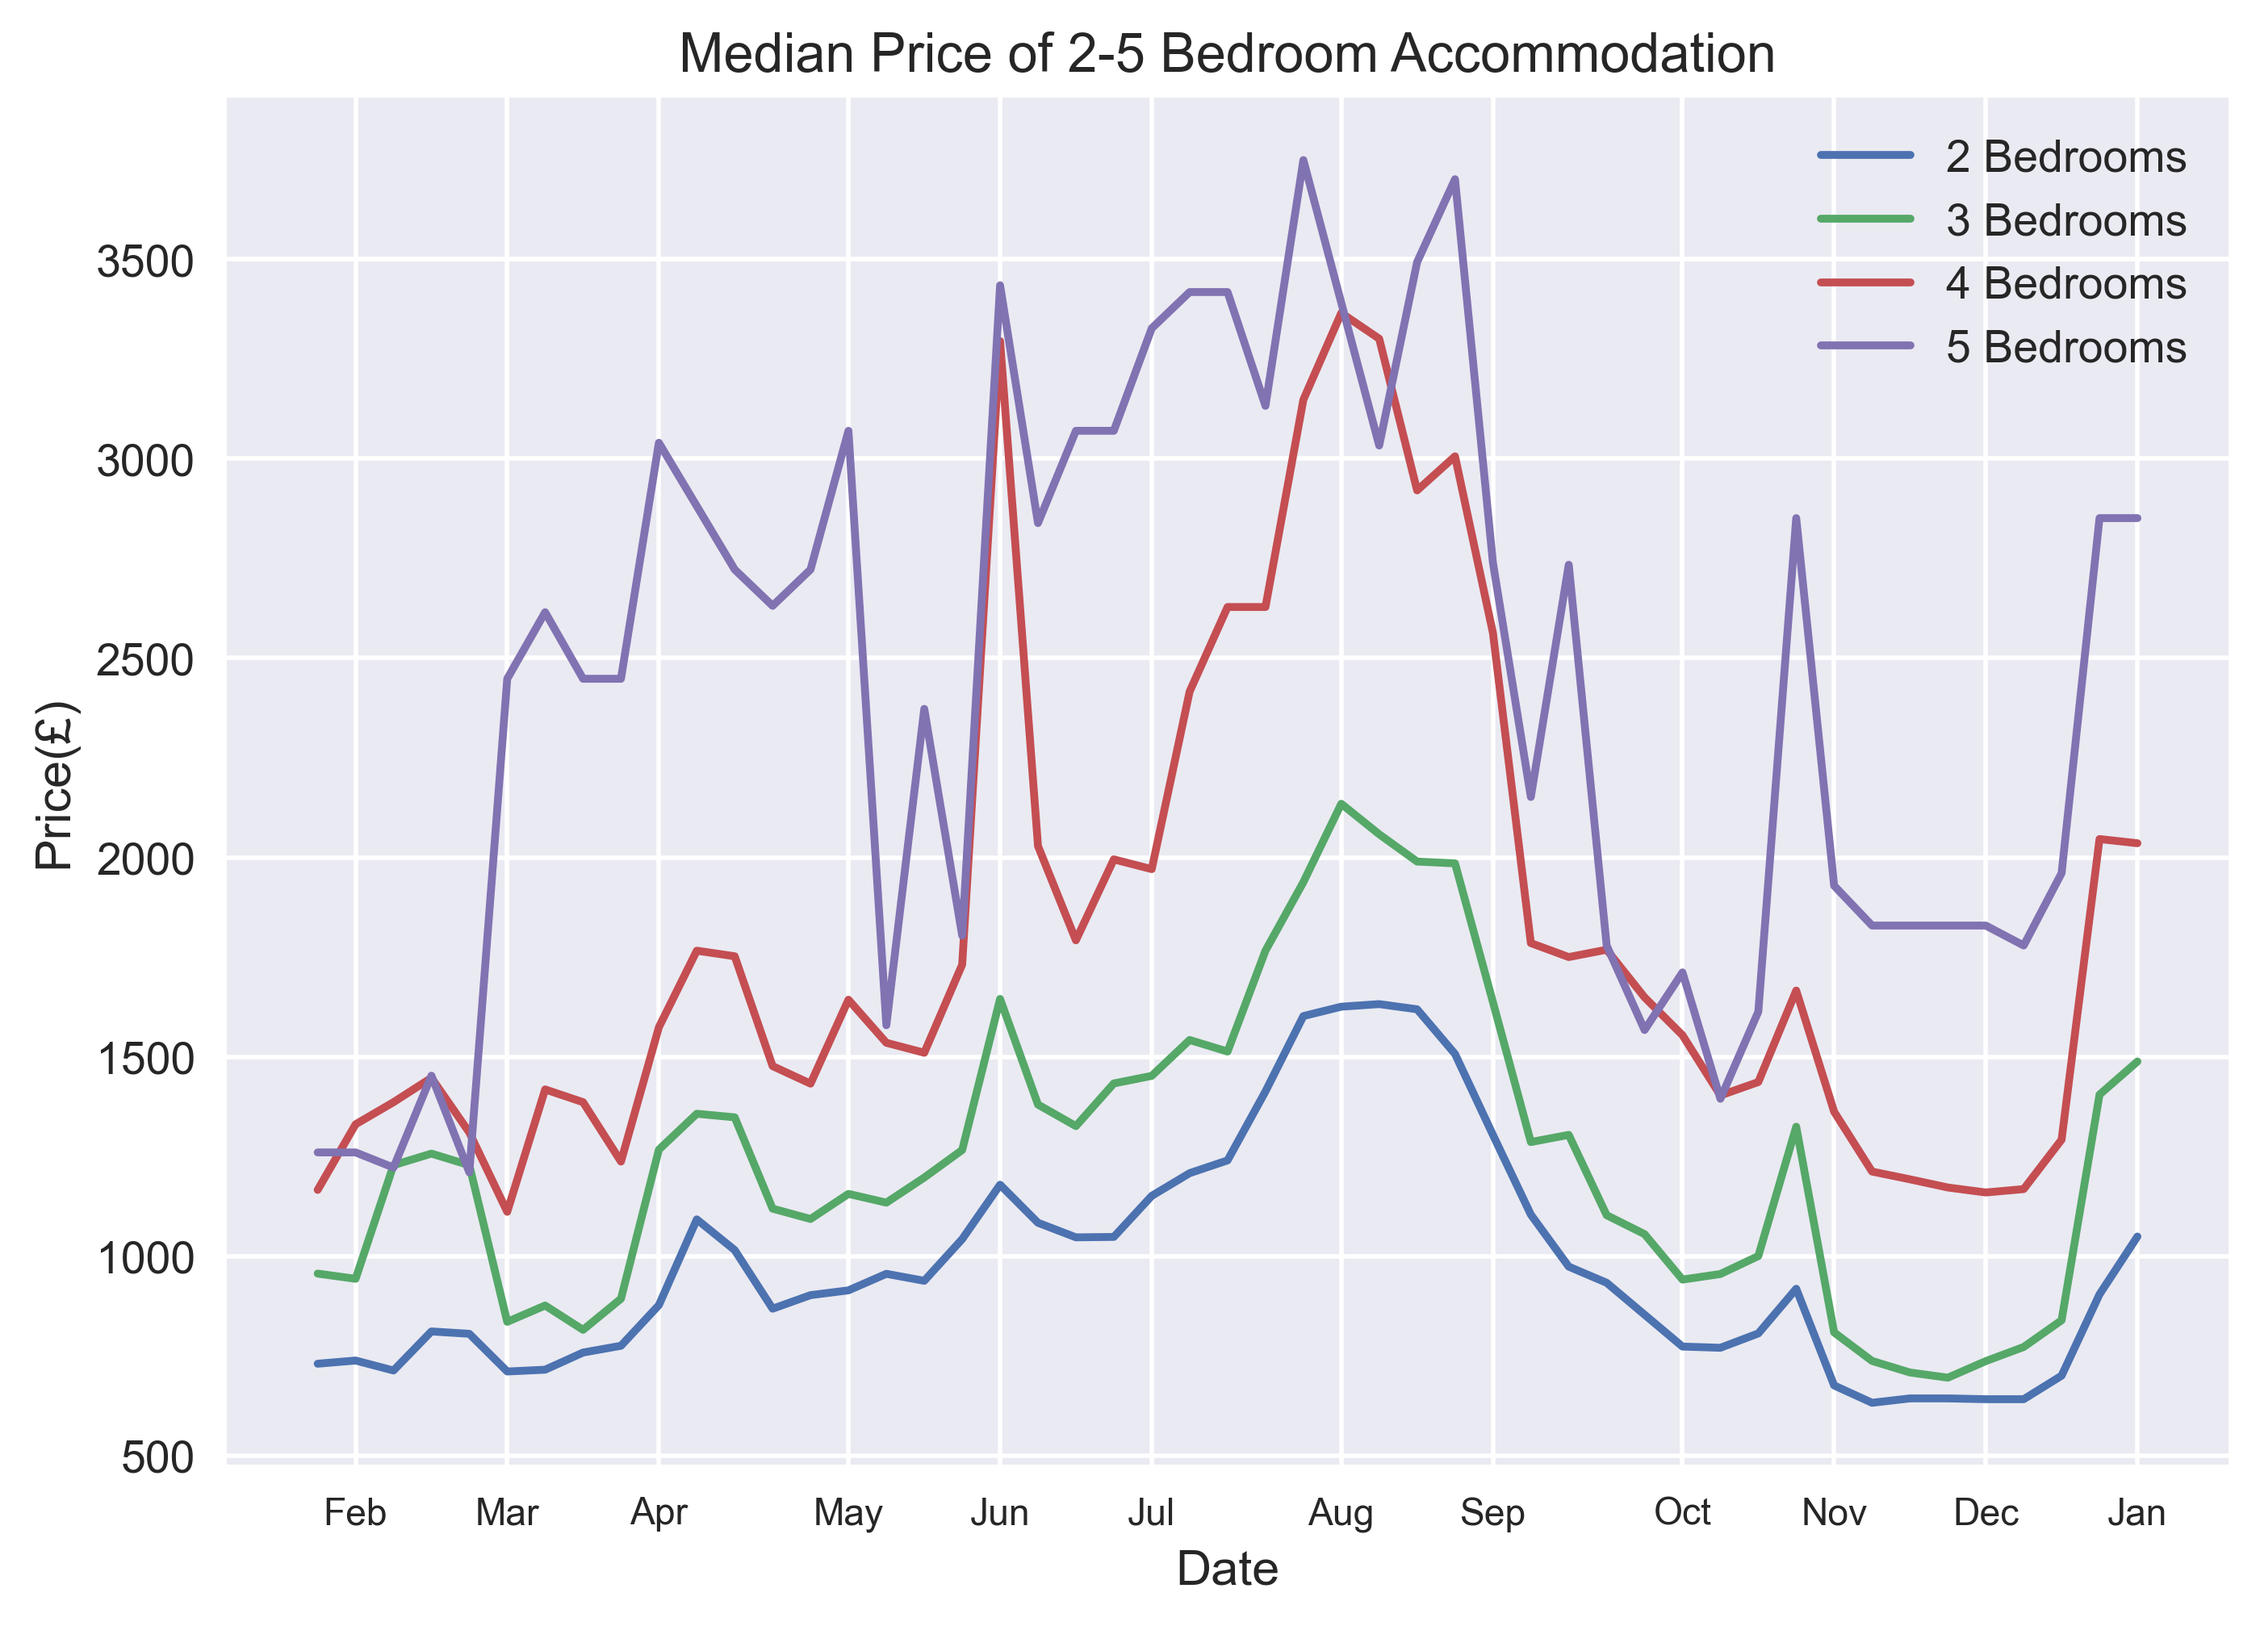
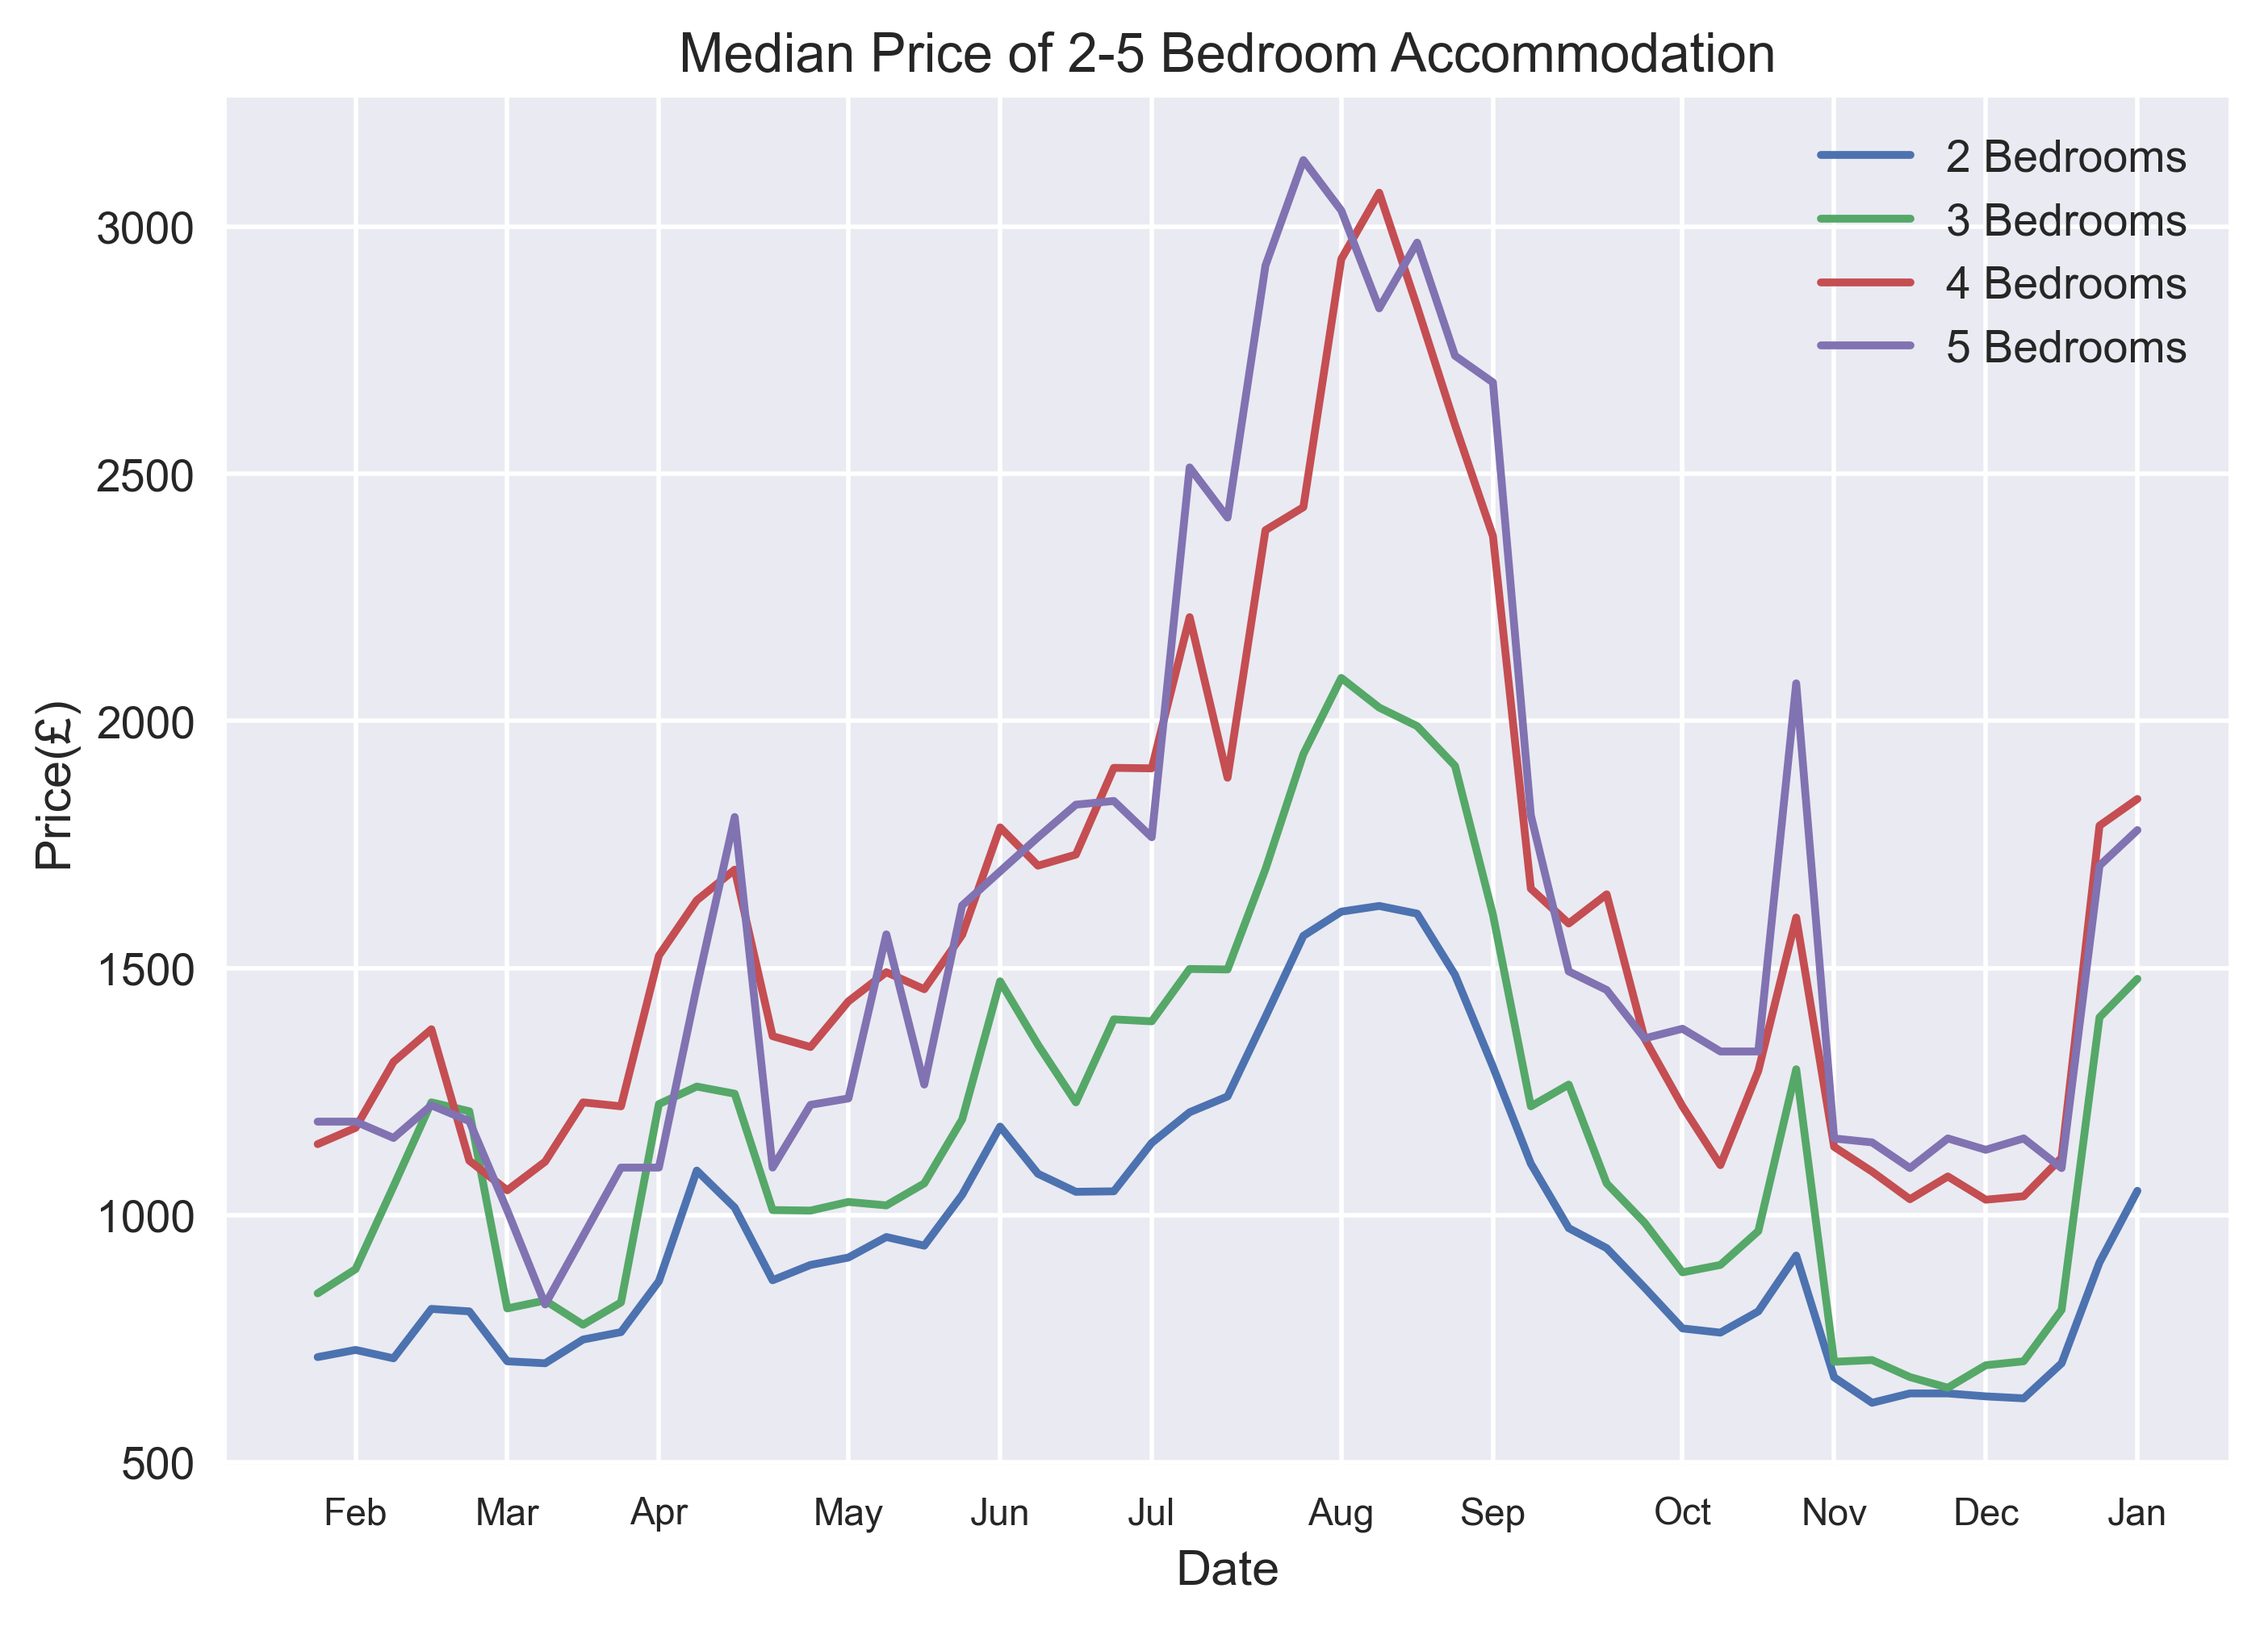
Refactored room_graphs.py updated graphs

diff --git a/analysis/room_graphs.py b/analysis/room_graphs.py
@@ -23,40 +23,27 @@ month_index = dates['month_ind']
 
 plt.style.use('seaborn')
 
-fig1 = plt.figure()
-ax1 = fig1.add_subplot(1,1,1)
+def graph(col, title, output=False):
+    fig1 = plt.figure()
+    ax1 = fig1.add_subplot(1,1,1)
 
-ax1.plot(Bedrooms.df2['date'], Bedrooms.df2['median'], label='2 Bedrooms')
-ax1.plot(Bedrooms.df3['date'], Bedrooms.df3['median'], label='3 Bedrooms')
-ax1.plot(Bedrooms.df4['date'], Bedrooms.df4['median'], label='4 Bedrooms')
-ax1.plot(Bedrooms.df5['date'], Bedrooms.df5['median'], label='5 Bedrooms')
+    ax1.plot(Bedrooms.df2['date'], Bedrooms.df2[col], label='2 Bedrooms')
+    ax1.plot(Bedrooms.df3['date'], Bedrooms.df3[col], label='3 Bedrooms')
+    ax1.plot(Bedrooms.df4['date'], Bedrooms.df4[col], label='4 Bedrooms')
+    ax1.plot(Bedrooms.df5['date'], Bedrooms.df5[col], label='5 Bedrooms')
 
-ax1.legend()
+    ax1.legend()
 
-ax1.set_title('Median Price of 2-5 Bedroom Accommodation')
-ax1.set_xlabel('Date')
-ax1.set_ylabel('Price(£)')
-ax1.set_xticks(month_index)
-ax1.set_xticklabels(months, fontsize='small')
+    ax1.set_title(title)
+    ax1.set_xlabel('Date')
+    ax1.set_ylabel('Price(£)')
+    ax1.set_xticks(month_index)
+    ax1.set_xticklabels(months, fontsize='small')
 
-plt.savefig('graphs/average_bedrooms.png', dpi=400, bbox_inches='tight')
+    if output:
+        plt.savefig(output, dpi=400, bbox_inches='tight')
+    plt.show()
 
-fig2 = plt.figure()
-ax2 = fig2.add_subplot(1,1,1)
-
-ax2.plot(Bedrooms.df2['date'], Bedrooms.df2['min'], label='2 Bedrooms')
-ax2.plot(Bedrooms.df3['date'], Bedrooms.df3['min'], label='3 Bedrooms')
-ax2.plot(Bedrooms.df4['date'], Bedrooms.df4['min'], label='4 Bedrooms')
-ax2.plot(Bedrooms.df5['date'], Bedrooms.df5['min'], label='5 Bedrooms')
-
-ax2.legend()
-
-ax2.set_title('Minimum Price of 2-5 Bedroom Accommodation')
-ax2.set_xlabel('Date')
-ax2.set_ylabel('Price(£)')
-ax2.set_xticks(month_index)
-ax2.set_xticklabels(months, fontsize='small')
-
-plt.savefig('graphs/minimum_bedrooms.png', dpi=400, bbox_inches='tight')
-
-plt.show()
+graph('median', 'Median Price of 2-5 Bedroom Accommodation', 'graphs/average_bedrooms.png')
+graph('min', 'Minimum Price of 2-5 Bedroom Accommodation', 'graphs/minimum_bedrooms.png')
+graph('max', 'Maximum Price of 2-5 Bedroom Accommodation', 'graphs/maximum_bedrooms.png')

diff --git a/analysis/all_prop_graphs.py b/analysis/all_prop_graphs.py
@@ -25,16 +25,14 @@ avg.set_ylabel('Price(£)')
 avg.set_xticks(month_index)
 avg.set_xticklabels(months, fontsize='small')
 
-plt.savefig('graphs/average.png', dpi=400, bbox_inches='tight')
+# plt.savefig('graphs/average.png', dpi=400, bbox_inches='tight')
 
-minp = avg_all.plot.line(x='date', y=['min'], title='Minimum Price Per Week (£)')
+minp = avg_all.plot.line(x='date', y=['max', 'min'], title='Minimum and Maximum Price Per Week (£)')
 minp.set_xlabel('Date')
 minp.set_ylabel('Price(£)')
 minp.set_xticks(month_index)
 minp.set_xticklabels(months, fontsize='small')
 
-plt.savefig('graphs/min.png', dpi=400, bbox_inches='tight')
+# plt.savefig('graphs/min.png', dpi=400, bbox_inches='tight')
 
 plt.show()
-
-

diff --git a/analysis/average.py b/analysis/average.py
@@ -8,7 +8,7 @@ def avg_all(file, out_file=None):
     """Returns average price of all properties"""
     df = get_df(file)
     date = df.groupby(['date'])
-    average_price = average(date['price_GBP'])
+    average_price = average(date['price'])
     if out_file:
         create_csv(out_file, average_price)
 
@@ -19,7 +19,7 @@ def avg_rooms(file, rooms, out_file=None):
     filt = df['rooms'].str.contains(f'{rooms} bedrooms', na=False)
     rooms = df[filt]
     date = rooms.groupby(['date'])
-    average_price = average(date['price_GBP'])
+    average_price = average(date['price'])
     if out_file:
         create_csv(out_file, average_price)
 

diff --git a/analysis/clean_data.py b/analysis/clean_data.py
@@ -17,7 +17,7 @@ clean = df.applymap(cd.remove_non_ascii, na_action='ignore')
 clean['price'] = clean['price'].map(cd.pounds_and_pence, na_action='ignore') 
 
 clean.boxplot('price')
-plt.savefig('graphs/price_boxplot.png', dpi=400, bbox_inches='tight')
+# plt.savefig('graphs/price_boxplot.png', dpi=400, bbox_inches='tight')
 plt.show()
 
 checkin_dates = os.path.join(BASE_DIR,'collection/dates.json')
